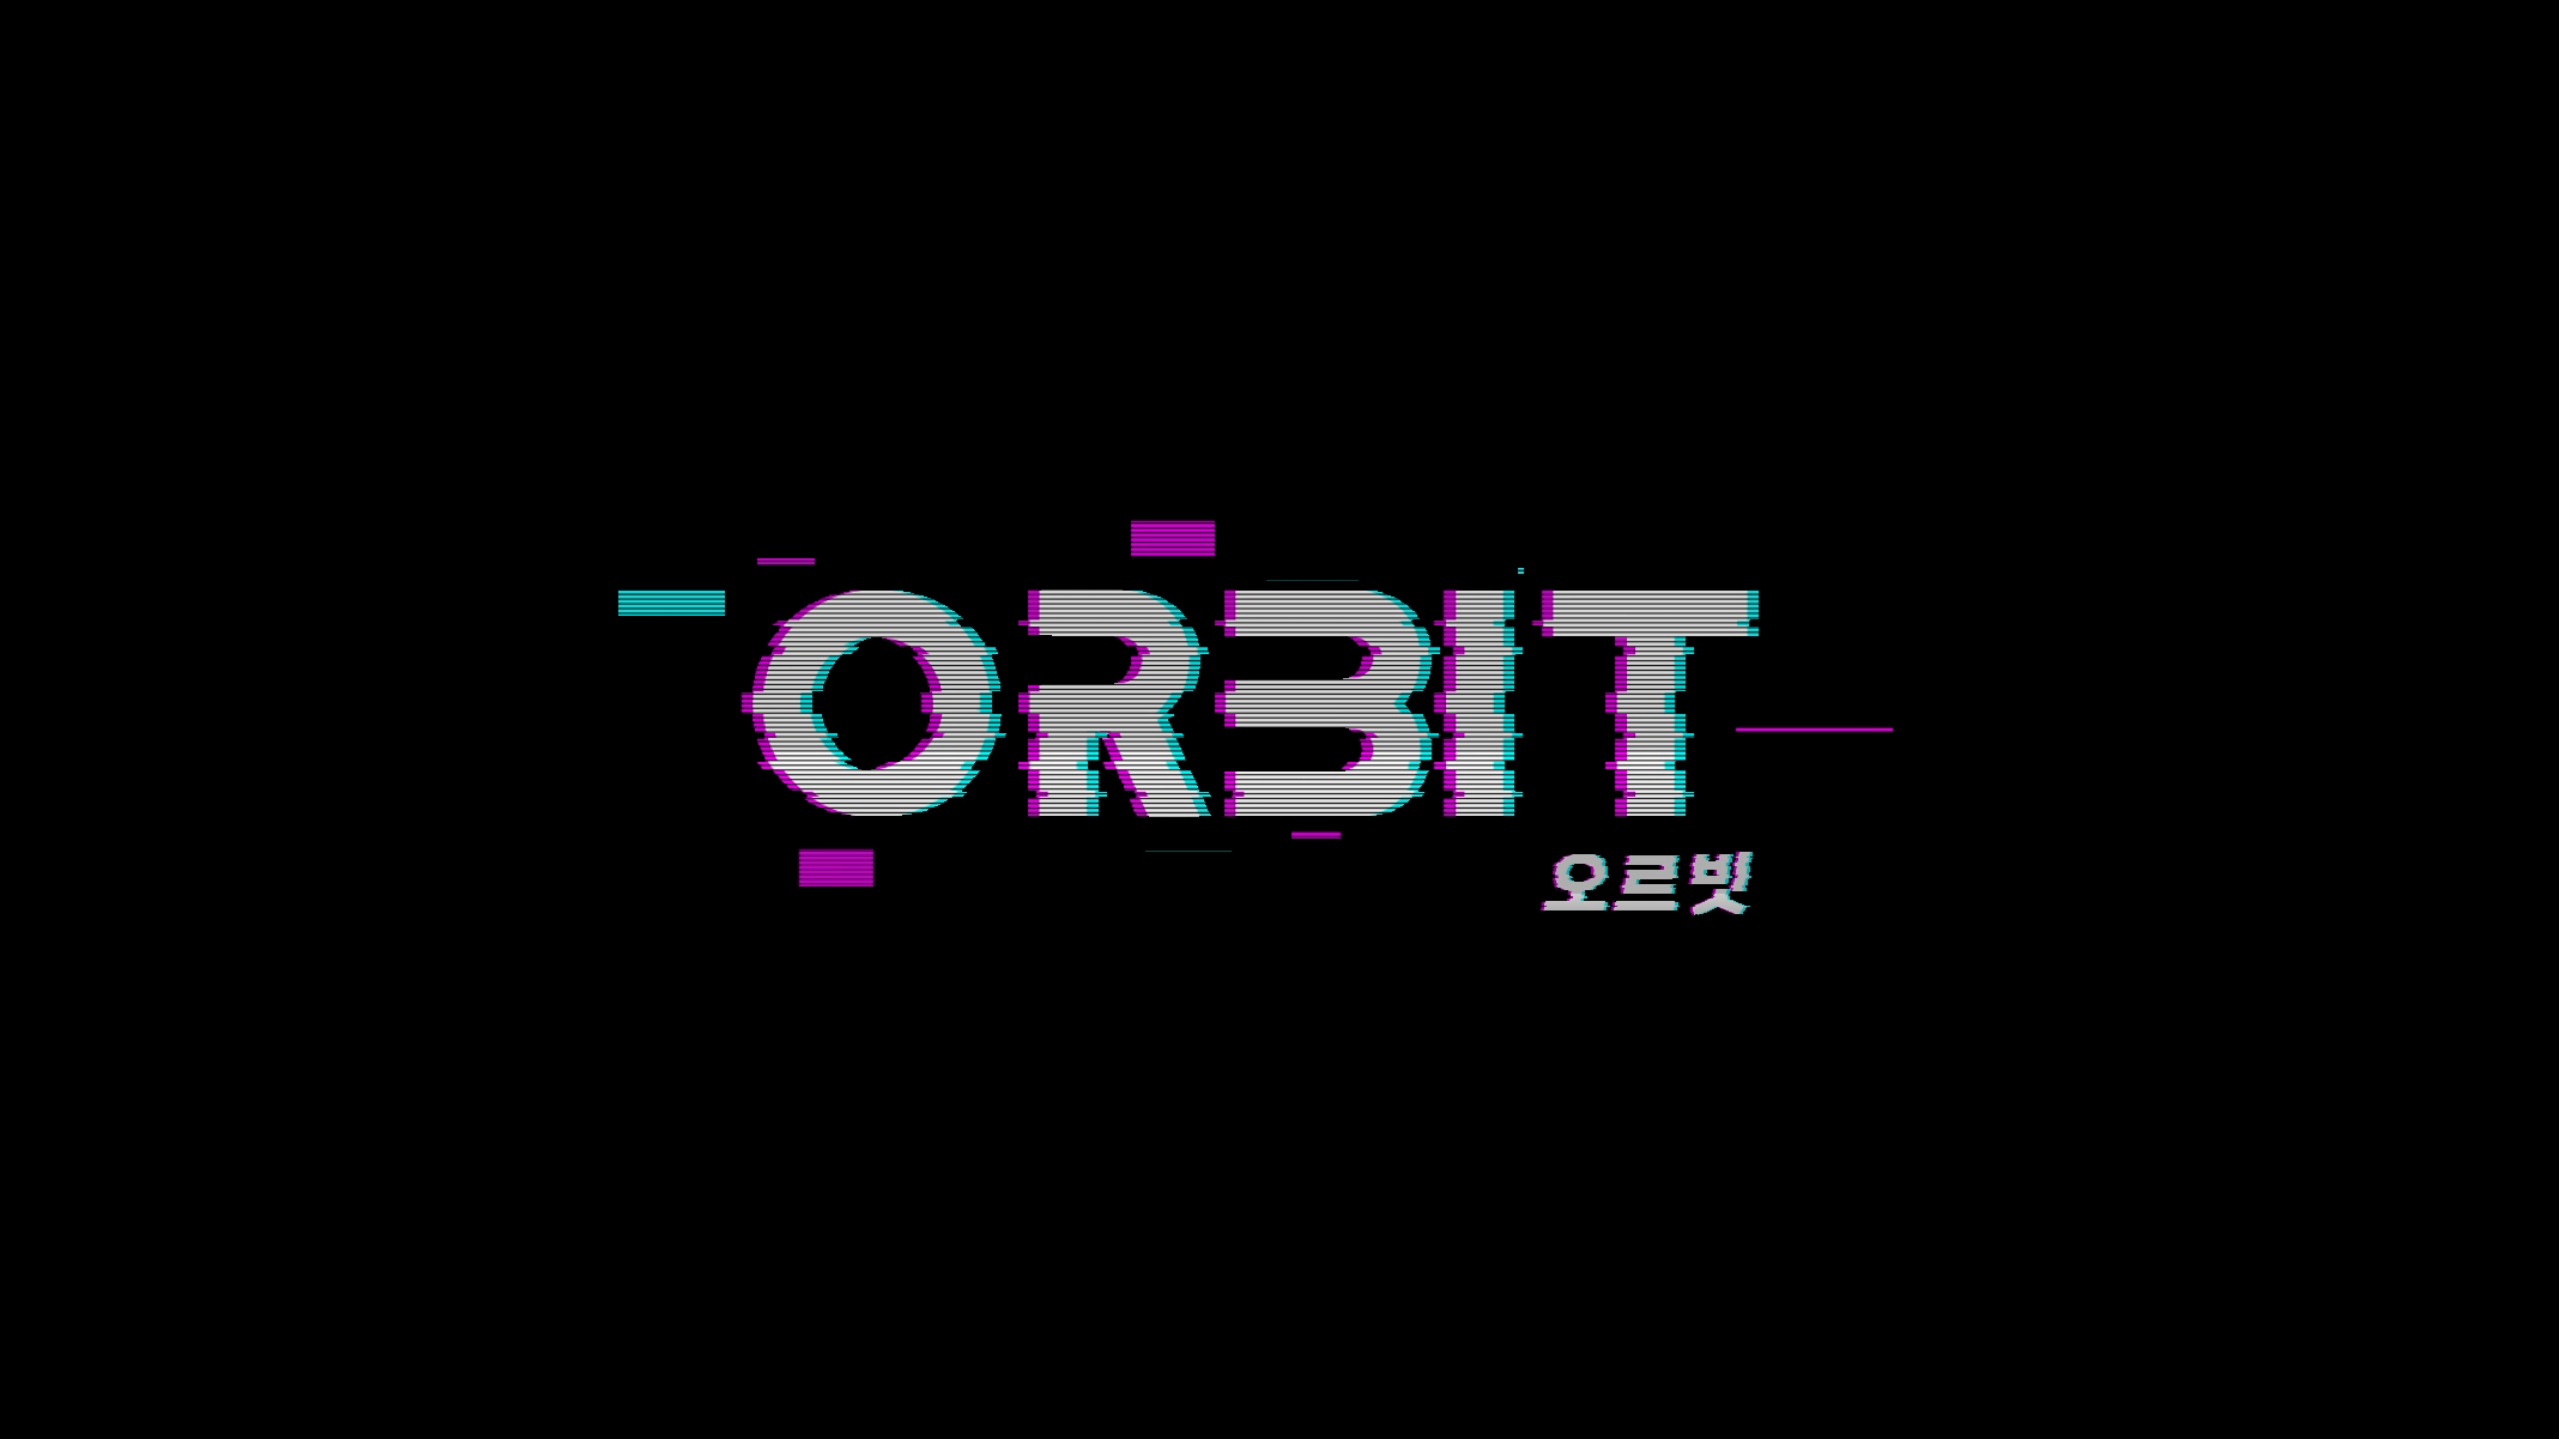
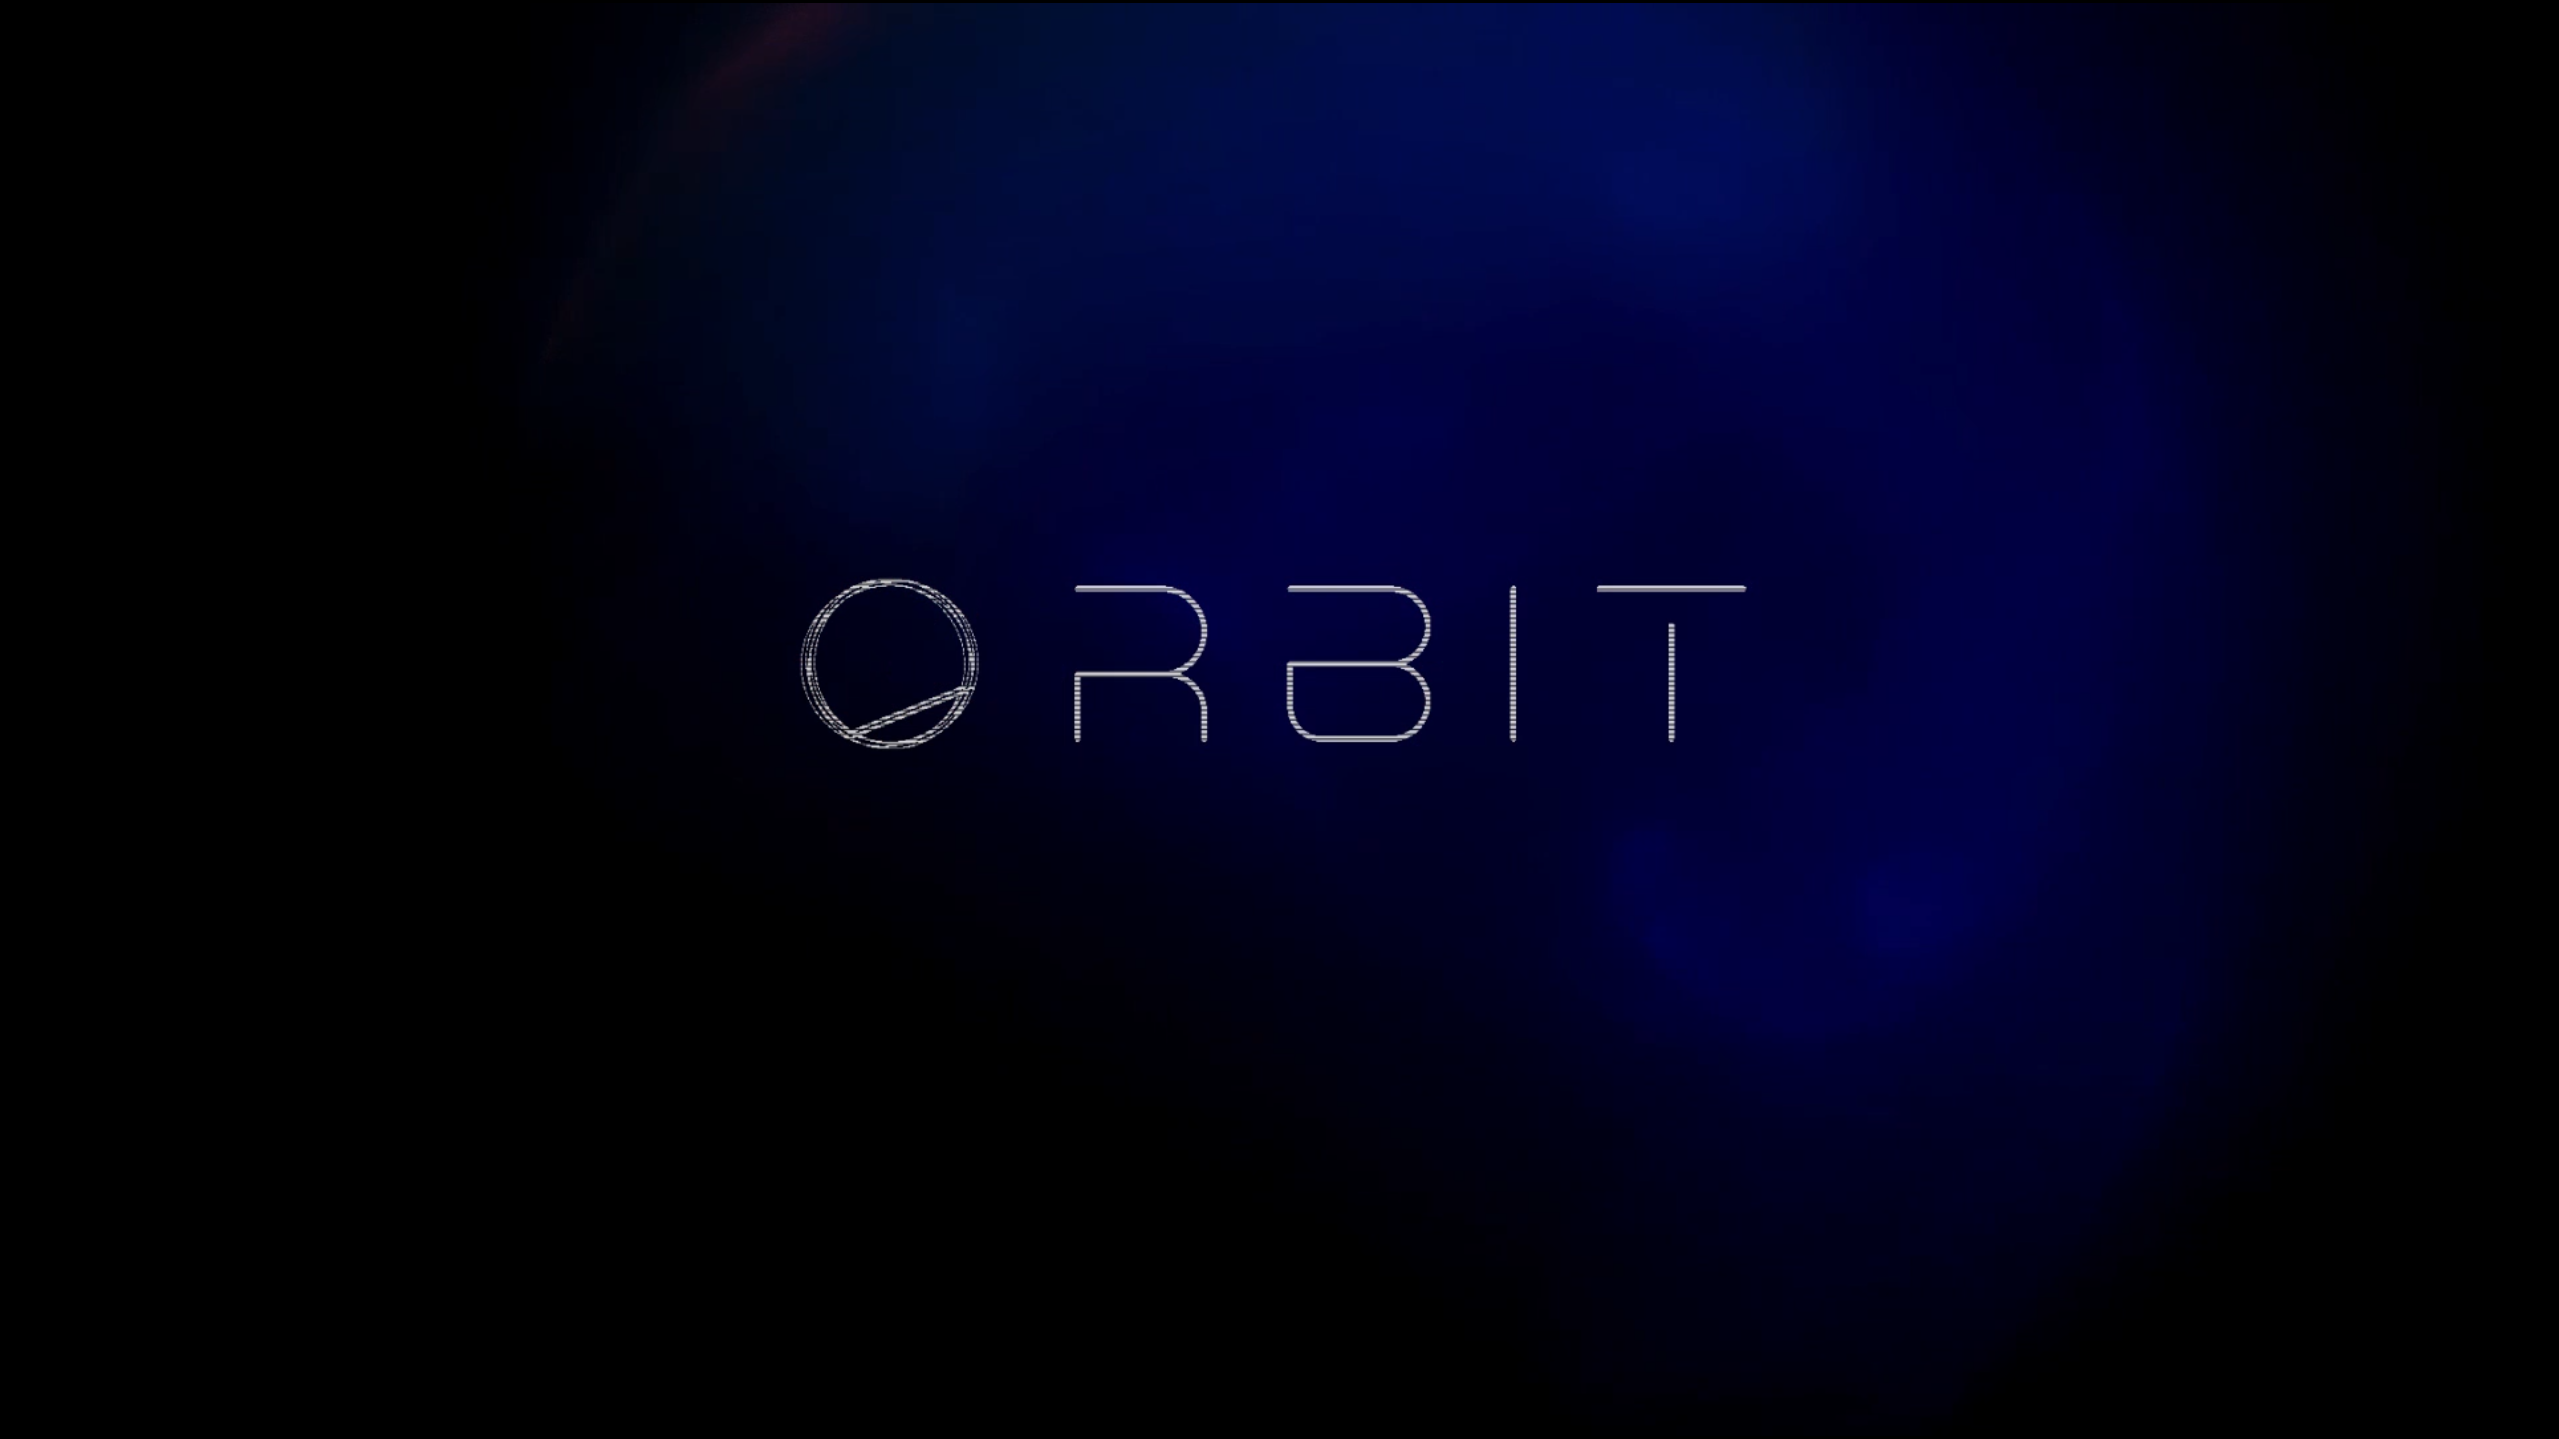
로고 변경

diff --git a/src/component/Home.js b/src/component/Home.js
@@ -1,5 +1,6 @@
 import React, { useEffect, useRef, useState } from 'react';
 import intro from '../images/intro.mp4';
+import poster from '../images/poster.png';
 import unitylogo from '../images/unity.jpg';
 import secret from '../images/secret.png';
 import { Helmet } from 'react-helmet';
@@ -95,7 +96,7 @@ const Home = () => {
           <div class="vertical"></div>
         </div>
       <div className="bg-video-prj " style={{ transform: `scale(${videoScale})` }}>
-        <video className="bg-video__content bg-black" autoPlay muted loop>
+        <video className="bg-video__content bg-black" autoPlay muted loop poster={poster}>
           <source src={intro} type="video/mp4" />
         </video>
 
